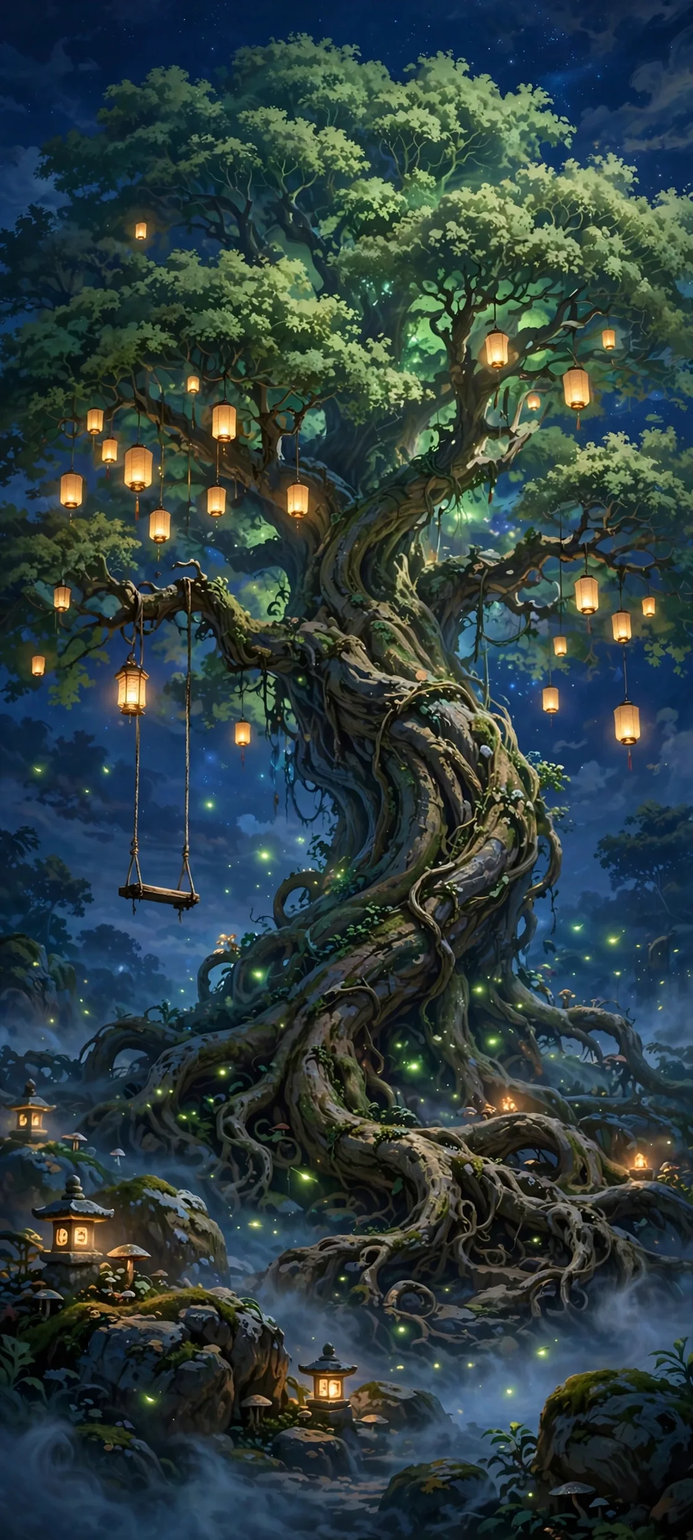
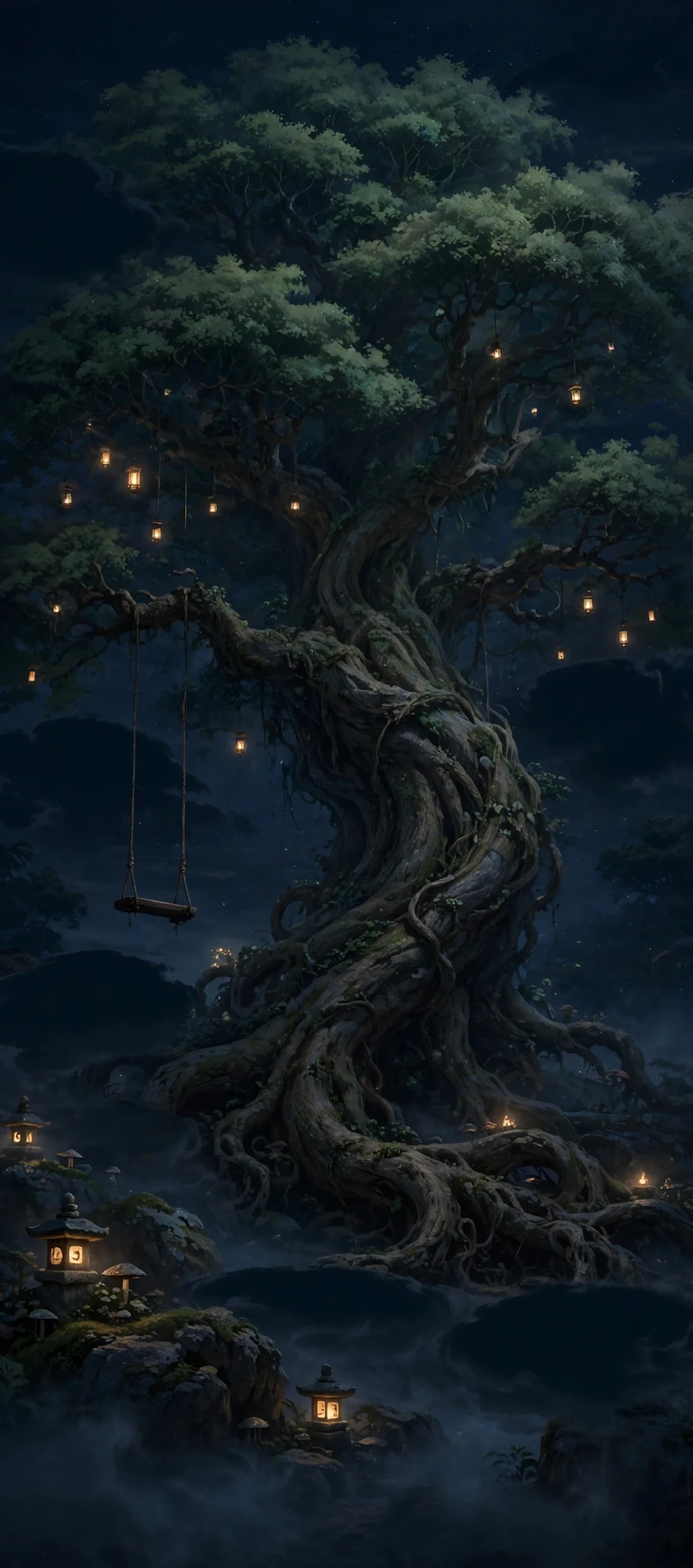
fix(home): 1.141 设置页换静谧雾版树图（题字落安静处）＋题字改首页式浮现（进页与点画浮现4秒后隐去、热区常在）

diff --git a/feature/settings/src/presentation/screen/SettingPager.kt b/feature/settings/src/presentation/screen/SettingPager.kt
@@ -309,7 +309,9 @@ private fun SkySettingScene(
             Settings.Global.getFloat(ctx.contentResolver, Settings.Global.ANIMATOR_DURATION_SCALE, 1f) == 0f
         }
     val clock = rememberSkyClock(active, reduceMotion)
-    val caption = rememberSkyCaption(active)
+    var showTick by remember { androidx.compose.runtime.mutableIntStateOf(0) }
+    val caption = rememberSkyCaption(active, showTick)
+    LaunchedEffect(running) { showTick++ }
     var imgReady by remember { mutableStateOf(false) }
     var timedOut by remember { mutableStateOf(false) }
     LaunchedEffect(active) {
@@ -337,7 +339,7 @@ private fun SkySettingScene(
         val h = constraints.maxHeight
         val map =
             remember(w, h) {
-                SkyShotMap(w.toFloat(), h.toFloat(), w.toFloat(), h.toFloat(), 1f, 0.5f, 0.5f, aspect = 1008f / 2240f)
+                SkyShotMap(w.toFloat(), h.toFloat(), w.toFloat(), h.toFloat(), 1f, 0.5f, 0.5f, aspect = 1040f / 2352f)
             }
         if (!fallback) {
             SkyBackdropFull(
@@ -365,19 +367,26 @@ private fun SkySettingScene(
             )
         }
         if (imgReady || fallback) {
+            // 点画任意处：题字重新浮现（同首页题字时钟）
+            Box(
+                Modifier.fillMaxSize().clickable(
+                    interactionSource = remember { androidx.compose.foundation.interaction.MutableInteractionSource() },
+                    indication = null,
+                ) { showTick++ },
+            )
             // 页题（heading，底值 0.60）
             SkyGlowLabel(
                 line1 = FlyTxt.Settings.Title,
                 line1Size = 17.sp,
                 modifier =
-                    Modifier.skyCenteredAt(map.at(Offset(0.50f, 0.057f))) { 0.60f * labelsIn.value },
+                    Modifier.skyCenteredAt(map.at(Offset(0.50f, 0.057f))) { 0.60f * labelsIn.value * caption.value },
             )
             // 「‹ 首页」：回岛的一条路（另有横滑与系统返回）
             SkyLabelEntry(
                 center = map.at(Offset(0.12f, 0.057f)),
                 title = "‹ " + BottomBarDestination.Home.label,
                 index = 7,
-                baseAlpha = 0.6f,
+                baseAlpha = 0f,
                 caption = { caption.value },
                 phase = { clock.floatValue },
                 parentSize = IntSize(w, h),
@@ -403,8 +412,10 @@ private fun SkySettingScene(
                     parentSize = IntSize(w, h),
                     contentDescription = settingsDesc(module),
                     active = active,
+                    baseAlpha = 0f,
                     mistAlpha = if (module.key == "app" || module.key == "meta") 0.45f else 0.34f,
                     onPressedChange = { p ->
+                        if (p) showTick++
                         pressedKey = if (p) module.key else if (pressedKey == module.key) null else pressedKey
                     },
                     onClick = { module.route?.let { onOpen(it) } },
@@ -419,13 +430,13 @@ private const val SKY_SETTINGS_TREE_URI = "file:///android_asset/sky_settings_tr
 /** 设置页七个题字在树图上的位置（图比例）与所挂的灯组。 */
 private val SETTINGS_SPOTS: Map<String, Offset> =
     mapOf(
-        "app" to Offset(0.145f, 0.345f),
-        "network" to Offset(0.830f, 0.115f),
-        "override" to Offset(0.235f, 0.605f),
-        "meta" to Offset(0.855f, 0.550f),
-        "lab" to Offset(0.125f, 0.715f),
-        "log" to Offset(0.460f, 0.836f),
-        "about" to Offset(0.830f, 0.845f),
+        "app" to Offset(0.145f, 0.310f),
+        "network" to Offset(0.815f, 0.128f),
+        "override" to Offset(0.235f, 0.640f),
+        "meta" to Offset(0.845f, 0.465f),
+        "lab" to Offset(0.135f, 0.680f),
+        "log" to Offset(0.470f, 0.838f),
+        "about" to Offset(0.835f, 0.848f),
     )
 
 private val SETTINGS_LAMP_GROUP: Map<String, String> =
@@ -465,27 +476,27 @@ private data class TreeLamp(
 
 private val TREE_LAMPS: List<TreeLamp> =
     listOf(
-        // 左枝灯笼群（实测中心 0.199, 0.302，散布其间）
-        TreeLamp("left", 0.199f, 0.302f, 0.026f, 4f, 10f, 0.18f, 0.11f, 0.27f),
-        TreeLamp("left", 0.149f, 0.272f, 0.018f, 3f, 8f, 0.22f, 0.37f, 0.23f),
-        TreeLamp("left", 0.244f, 0.257f, 0.020f, 5f, 12f, 0.15f, 0.53f, 0.25f),
-        TreeLamp("left", 0.171f, 0.337f, 0.016f, 6f, 15f, 0.12f, 0.71f, 0.21f),
-        TreeLamp("left", 0.259f, 0.322f, 0.015f, 4f, 9f, 0.20f, 0.83f, 0.20f),
-        TreeLamp("left", 0.134f, 0.312f, 0.014f, 3f, 11f, 0.21f, 0.29f, 0.20f),
-        TreeLamp("left", 0.219f, 0.232f, 0.013f, 5f, 14f, 0.16f, 0.61f, 0.19f),
-        TreeLamp("left", 0.189f, 0.357f, 0.012f, 6f, 10f, 0.14f, 0.97f, 0.18f),
-        // 右侧垂灯
-        TreeLamp("right", 0.850f, 0.360f, 0.020f, 6f, 12f, 0.15f, 0.19f, 0.24f),
-        TreeLamp("right", 0.865f, 0.440f, 0.017f, 8f, 15f, 0.13f, 0.43f, 0.22f),
-        TreeLamp("right", 0.845f, 0.500f, 0.015f, 7f, 11f, 0.16f, 0.67f, 0.20f),
-        // 秋千灯
-        TreeLamp("swing", 0.189f, 0.438f, 0.022f, 4f, 10f, 0.17f, 0.23f, 0.26f),
-        TreeLamp("swing", 0.345f, 0.465f, 0.013f, 5f, 12f, 0.15f, 0.79f, 0.18f),
-        // 树根石灯（更暗更稳）
-        TreeLamp("stoneL", 0.105f, 0.800f, 0.013f, 6f, 15f, 0.08f, 0.31f, 0.17f),
-        TreeLamp("stoneB", 0.472f, 0.879f, 0.014f, 8f, 12f, 0.08f, 0.57f, 0.18f),
+        // 左枝灯笼群（静谧版实测位置）
+        TreeLamp("left", 0.150f, 0.272f, 0.020f, 3f, 8f, 0.22f, 0.37f, 0.25f),
+        TreeLamp("left", 0.190f, 0.282f, 0.022f, 4f, 10f, 0.18f, 0.11f, 0.27f),
+        TreeLamp("left", 0.115f, 0.295f, 0.016f, 5f, 12f, 0.15f, 0.53f, 0.22f),
+        TreeLamp("left", 0.228f, 0.308f, 0.015f, 6f, 15f, 0.12f, 0.71f, 0.20f),
+        TreeLamp("left", 0.262f, 0.295f, 0.013f, 4f, 9f, 0.20f, 0.83f, 0.19f),
+        TreeLamp("left", 0.095f, 0.315f, 0.013f, 3f, 11f, 0.21f, 0.29f, 0.19f),
+        // 右侧垂灯（疏）
+        TreeLamp("right", 0.848f, 0.207f, 0.017f, 6f, 12f, 0.15f, 0.19f, 0.24f),
+        TreeLamp("right", 0.852f, 0.362f, 0.016f, 8f, 15f, 0.13f, 0.43f, 0.22f),
+        TreeLamp("right", 0.898f, 0.382f, 0.014f, 7f, 11f, 0.16f, 0.67f, 0.20f),
+        TreeLamp("right", 0.742f, 0.218f, 0.012f, 5f, 10f, 0.17f, 0.59f, 0.18f),
+        // 秋千旁小灯
+        TreeLamp("swing", 0.345f, 0.452f, 0.013f, 5f, 12f, 0.15f, 0.79f, 0.19f),
+        // 石灯（更暗更稳）
+        TreeLamp("stoneL", 0.022f, 0.688f, 0.010f, 6f, 15f, 0.08f, 0.31f, 0.16f),
+        TreeLamp("stoneL", 0.095f, 0.792f, 0.013f, 6f, 15f, 0.08f, 0.47f, 0.17f),
+        TreeLamp("stoneB", 0.472f, 0.902f, 0.014f, 8f, 12f, 0.08f, 0.57f, 0.18f),
         // 右下小烛
-        TreeLamp("candle", 0.925f, 0.735f, 0.011f, 3f, 8f, 0.22f, 0.89f, 0.19f),
+        TreeLamp("candle", 0.742f, 0.712f, 0.009f, 3f, 8f, 0.22f, 0.89f, 0.17f),
+        TreeLamp("candle", 0.930f, 0.718f, 0.010f, 3f, 8f, 0.22f, 0.73f, 0.18f),
     )
 
 /** 萤火（图比例中心；轨迹为小幅 Lissajous 漂移）。 */

diff --git a/ui/src/presentation/component/sky/SkyKit.kt b/ui/src/presentation/component/sky/SkyKit.kt
@@ -152,9 +152,9 @@ fun Modifier.skyCenteredAt(p: Offset, alpha: () -> Float = { 1f }): Modifier =
 
 /** 题字时钟（同首页）：active 时亮起 4 秒再淡出；返回值在 draw/layer 阶段读。 */
 @Composable
-fun rememberSkyCaption(active: Boolean): Animatable<Float, androidx.compose.animation.core.AnimationVector1D> {
+fun rememberSkyCaption(active: Boolean, reshowKey: Any? = null): Animatable<Float, androidx.compose.animation.core.AnimationVector1D> {
     val anim = remember { Animatable(0f) }
-    LaunchedEffect(active) {
+    LaunchedEffect(active, reshowKey) {
         if (active) {
             anim.snapTo(1f)
             delay(4000)
